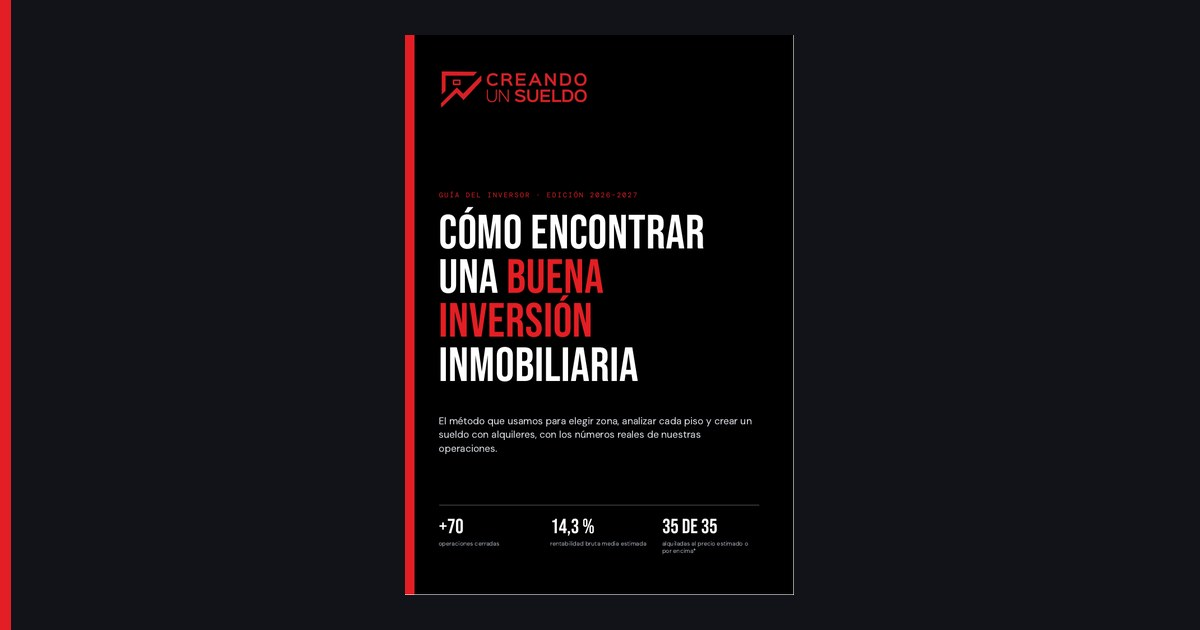
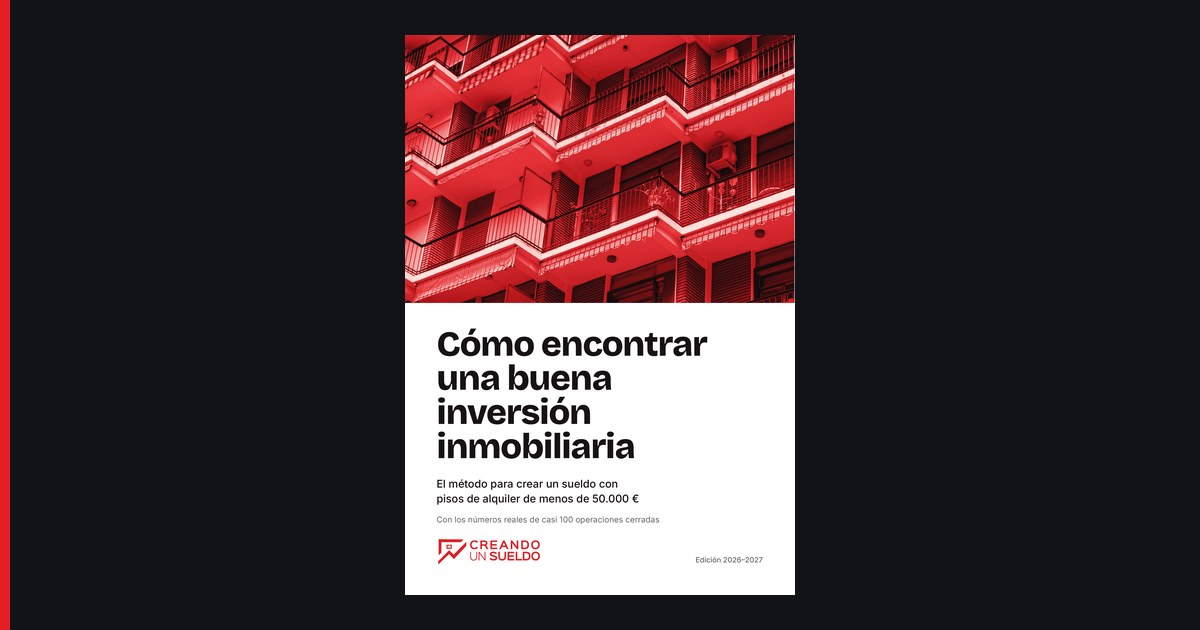
Guía: nueva portada
Claude-Session: https://claude.ai/code/session_01BPhpWgVYesSicZv89AhARC

Changed region(s): [[0.3392, 0.0302, 0.6783, 0.9651]]

diff --git a/guia/index.html b/guia/index.html
@@ -10,12 +10,12 @@
 <meta property="og:description" content="188 páginas con el método y los números reales de nuestras operaciones. Lanzamiento: 9,99 € (antes 99,99 €). Te sale gratis si compras un piso con nosotros.">
 <meta property="og:url" content="https://www.creandounsueldo.com/guia">
 <meta property="og:type" content="product">
-<meta property="og:image" content="https://www.creandounsueldo.com/guia/img/og.jpg">
+<meta property="og:image" content="https://www.creandounsueldo.com/guia/img/og.jpg?v=2">
 <meta name="twitter:card" content="summary_large_image">
 <link rel="preconnect" href="https://fonts.googleapis.com">
 <link href="https://fonts.googleapis.com/css2?family=Bebas+Neue&family=DM+Sans:wght@400;500;700&family=DM+Mono:wght@500&display=swap" rel="stylesheet">
 <script type="application/ld+json">
-{"@context":"https://schema.org","@type":"Product","name":"Guía del inversor: cómo encontrar una buena inversión inmobiliaria","image":"https://www.creandounsueldo.com/guia/img/portada.webp","description":"Guía de 188 páginas en PDF con el método de CreandoUnSueldo para invertir en pisos de alquiler.","brand":{"@type":"Brand","name":"CreandoUnSueldo"},"offers":{"@type":"Offer","price":"9.99","priceCurrency":"EUR","availability":"https://schema.org/InStock","url":"https://www.creandounsueldo.com/guia"}}
+{"@context":"https://schema.org","@type":"Product","name":"Guía del inversor: cómo encontrar una buena inversión inmobiliaria","image":"https://www.creandounsueldo.com/guia/img/portada.webp?v=2","description":"Guía de 188 páginas en PDF con el método de CreandoUnSueldo para invertir en pisos de alquiler.","brand":{"@type":"Brand","name":"CreandoUnSueldo"},"offers":{"@type":"Offer","price":"9.99","priceCurrency":"EUR","availability":"https://schema.org/InStock","url":"https://www.creandounsueldo.com/guia"}}
 </script>
 <style>
 :root{--red:#E31E24;--dark:#111318;--gray:#6B7280;--gray3:#E5E7EB;--gray5:#F9FAFB;--green:#16A34A}
@@ -155,7 +155,7 @@ footer a{color:var(--gray)}
       <a class="cta" href="#comprar">Quiero la guía →</a>
       <p class="gratis-line">🎁 <b>Te sale gratis</b> si compras un piso con nosotros: te descontamos su precio de los honorarios.</p>
     </div>
-    <div class="cover3d"><img src="/guia/img/portada.webp" alt="Portada de la Guía del inversor de CreandoUnSueldo" width="900" height="1292"></div>
+    <div class="cover3d"><img src="/guia/img/portada.webp?v=2" alt="Portada de la Guía del inversor de CreandoUnSueldo" width="900" height="1292"></div>
   </div>
 </div>
 

diff --git a/index.html b/index.html
@@ -943,7 +943,7 @@ button:active,.btn-white:active,.btn-primary:active,.nav-cta:active,.cc-btn:acti
   <section id="guia" style="padding:56px 52px;background:#13151f;color:white;position:relative;overflow:hidden;border-top:1px solid rgba(255,255,255,.08)">
     <div style="position:absolute;left:0;top:0;bottom:0;width:5px;background:var(--red)"></div>
     <div class="guia-home" style="max-width:1100px;margin:0 auto;display:grid;grid-template-columns:auto 1fr;gap:48px;align-items:center">
-      <a href="/guia?utm_source=web&utm_medium=home" style="display:block;perspective:1200px"><img src="/guia/img/portada.webp" alt="Guía del inversor de CreandoUnSueldo" loading="lazy" style="width:220px;border-radius:3px 8px 8px 3px;transform:rotateY(-16deg);box-shadow:-6px 0 0 #0b0c0f,24px 30px 60px rgba(227,30,36,.25)"></a>
+      <a href="/guia?utm_source=web&utm_medium=home" style="display:block;perspective:1200px"><img src="/guia/img/portada.webp?v=2" alt="Guía del inversor de CreandoUnSueldo" loading="lazy" style="width:220px;border-radius:3px 8px 8px 3px;transform:rotateY(-16deg);box-shadow:-6px 0 0 #0b0c0f,24px 30px 60px rgba(227,30,36,.25)"></a>
       <div>
         <div class="section-eyebrow" style="color:var(--red)">Nuevo · Guía del inversor</div>
         <h2 style="color:white;margin-bottom:12px;font-size:clamp(32px,3.6vw,48px)">CÓMO ENCONTRAR UNA BUENA INVERSIÓN INMOBILIARIA</h2>

diff --git a/servicios/index.html b/servicios/index.html
@@ -10,7 +10,7 @@
 <meta property="og:description" content="¿Has encontrado un piso? Lo analizamos por 250 € + IVA y te decimos si comprarlo y a qué precio. También gestionamos la compra y el alquiler.">
 <meta property="og:url" content="https://www.creandounsueldo.com/servicios">
 <meta property="og:type" content="website">
-<meta property="og:image" content="https://www.creandounsueldo.com/guia/img/og.jpg">
+<meta property="og:image" content="https://www.creandounsueldo.com/guia/img/og.jpg?v=2">
 <meta name="twitter:card" content="summary_large_image">
 <link rel="preconnect" href="https://fonts.googleapis.com">
 <link href="https://fonts.googleapis.com/css2?family=Bebas+Neue&family=DM+Sans:wght@400;500;700&family=DM+Mono:wght@500&display=swap" rel="stylesheet">
@@ -446,7 +446,7 @@ footer a{color:var(--gray)}
 <section style="padding-bottom:20px">
   <div class="wrap">
     <div class="guia">
-      <img src="/guia/img/portada.webp" alt="Guía del inversor" loading="lazy">
+      <img src="/guia/img/portada.webp?v=2" alt="Guía del inversor" loading="lazy">
       <div>
         <div class="eyebrow">¿Prefieres hacerlo tú solo?</div>
         <h3>Nuestro método completo, en 188 páginas</h3>

diff --git a/guia/gracias/index.html b/guia/gracias/index.html
@@ -40,7 +40,7 @@ p{color:#C9CDD3;font-size:16px;line-height:1.6}
   <div class="box">
     <div id="cargando"><div class="spin"></div><p>Confirmando tu pago…</p></div>
     <div id="ok" style="display:none">
-      <img src="/guia/img/portada.webp" alt="Guía del inversor">
+      <img src="/guia/img/portada.webp?v=2" alt="Guía del inversor">
       <h1>¡Gracias<span id="nombre"></span>! <span>Tu guía está lista</span></h1>
       <p>Pulsa el botón para descargarla. También te la hemos enviado a <b id="email" style="color:#fff"></b> para que puedas volver a descargarla cuando quieras.</p>
       <button class="btn" id="btnDescargar">⬇ Descargar la guía (PDF)</button>
